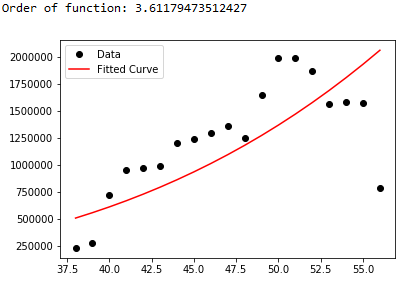
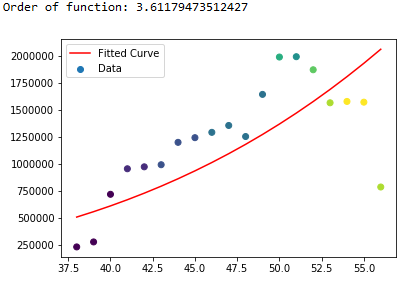
Colors added to graphs to indicate number of players

diff --git a/curve_fit.py b/curve_fit.py
@@ -13,11 +13,16 @@ def curve_fit_network_in(filename, start_index, end_index):
     fp = open(filename)
     x=[]
     y=[]
+    colors=[]
     for i, line in enumerate(fp):
         if i == 1:#time
             x = line.split(',')[1:]
             x = x[start_index:end_index]
             x = [float(a) for a in x]
+        elif i == 2: #number of players
+            colors = line.split(',')[1:]
+            colors = colors[start_index:end_index]
+            colors = [int(a) for a in colors]
         elif i == 7:#network in
             y = line.split(',')[1:]
             y = y[start_index:end_index]
@@ -30,7 +35,8 @@ def curve_fit_network_in(filename, start_index, end_index):
     print("Order of function:",*popt)
     
     plt.figure()
-    plt.plot(x, y, 'ko', label="Data")
+    #plt.plot(x, y, "ko", label="Data")
+    plt.scatter(x, y, c=colors, label="Data")
     plt.plot(x, fitted_curve(x, *popt), 'r-', label="Fitted Curve")
     plt.legend()
     plt.show()
@@ -39,11 +45,16 @@ def curve_fit_cpu(filename, start_index, end_index):
     fp = open(filename)
     x=[]
     y=[]
+    colors=[]
     for i, line in enumerate(fp):
         if i == 1:#time
             x = line.split(',')[1:]
             x = x[start_index:end_index]
             x = [float(a) for a in x]
+        elif i == 2: #number of players
+            colors = line.split(',')[1:]
+            colors = colors[start_index:end_index]
+            colors = [int(a) for a in colors]
         elif i == 6:#cpu
             y = line.split(',')[1:]
             y = y[start_index:end_index]
@@ -56,7 +67,8 @@ def curve_fit_cpu(filename, start_index, end_index):
     print("Order of function:",*popt)
     
     plt.figure()
-    plt.plot(x, y, 'ko', label="Data")
+    #plt.plot(x, y, 'ko', label="Data")
+    plt.scatter(x, y, c=colors, label="Data")
     plt.plot(x, fitted_curve(x, *popt), 'r-', label="Fitted Curve")
     plt.legend()
     plt.show()
